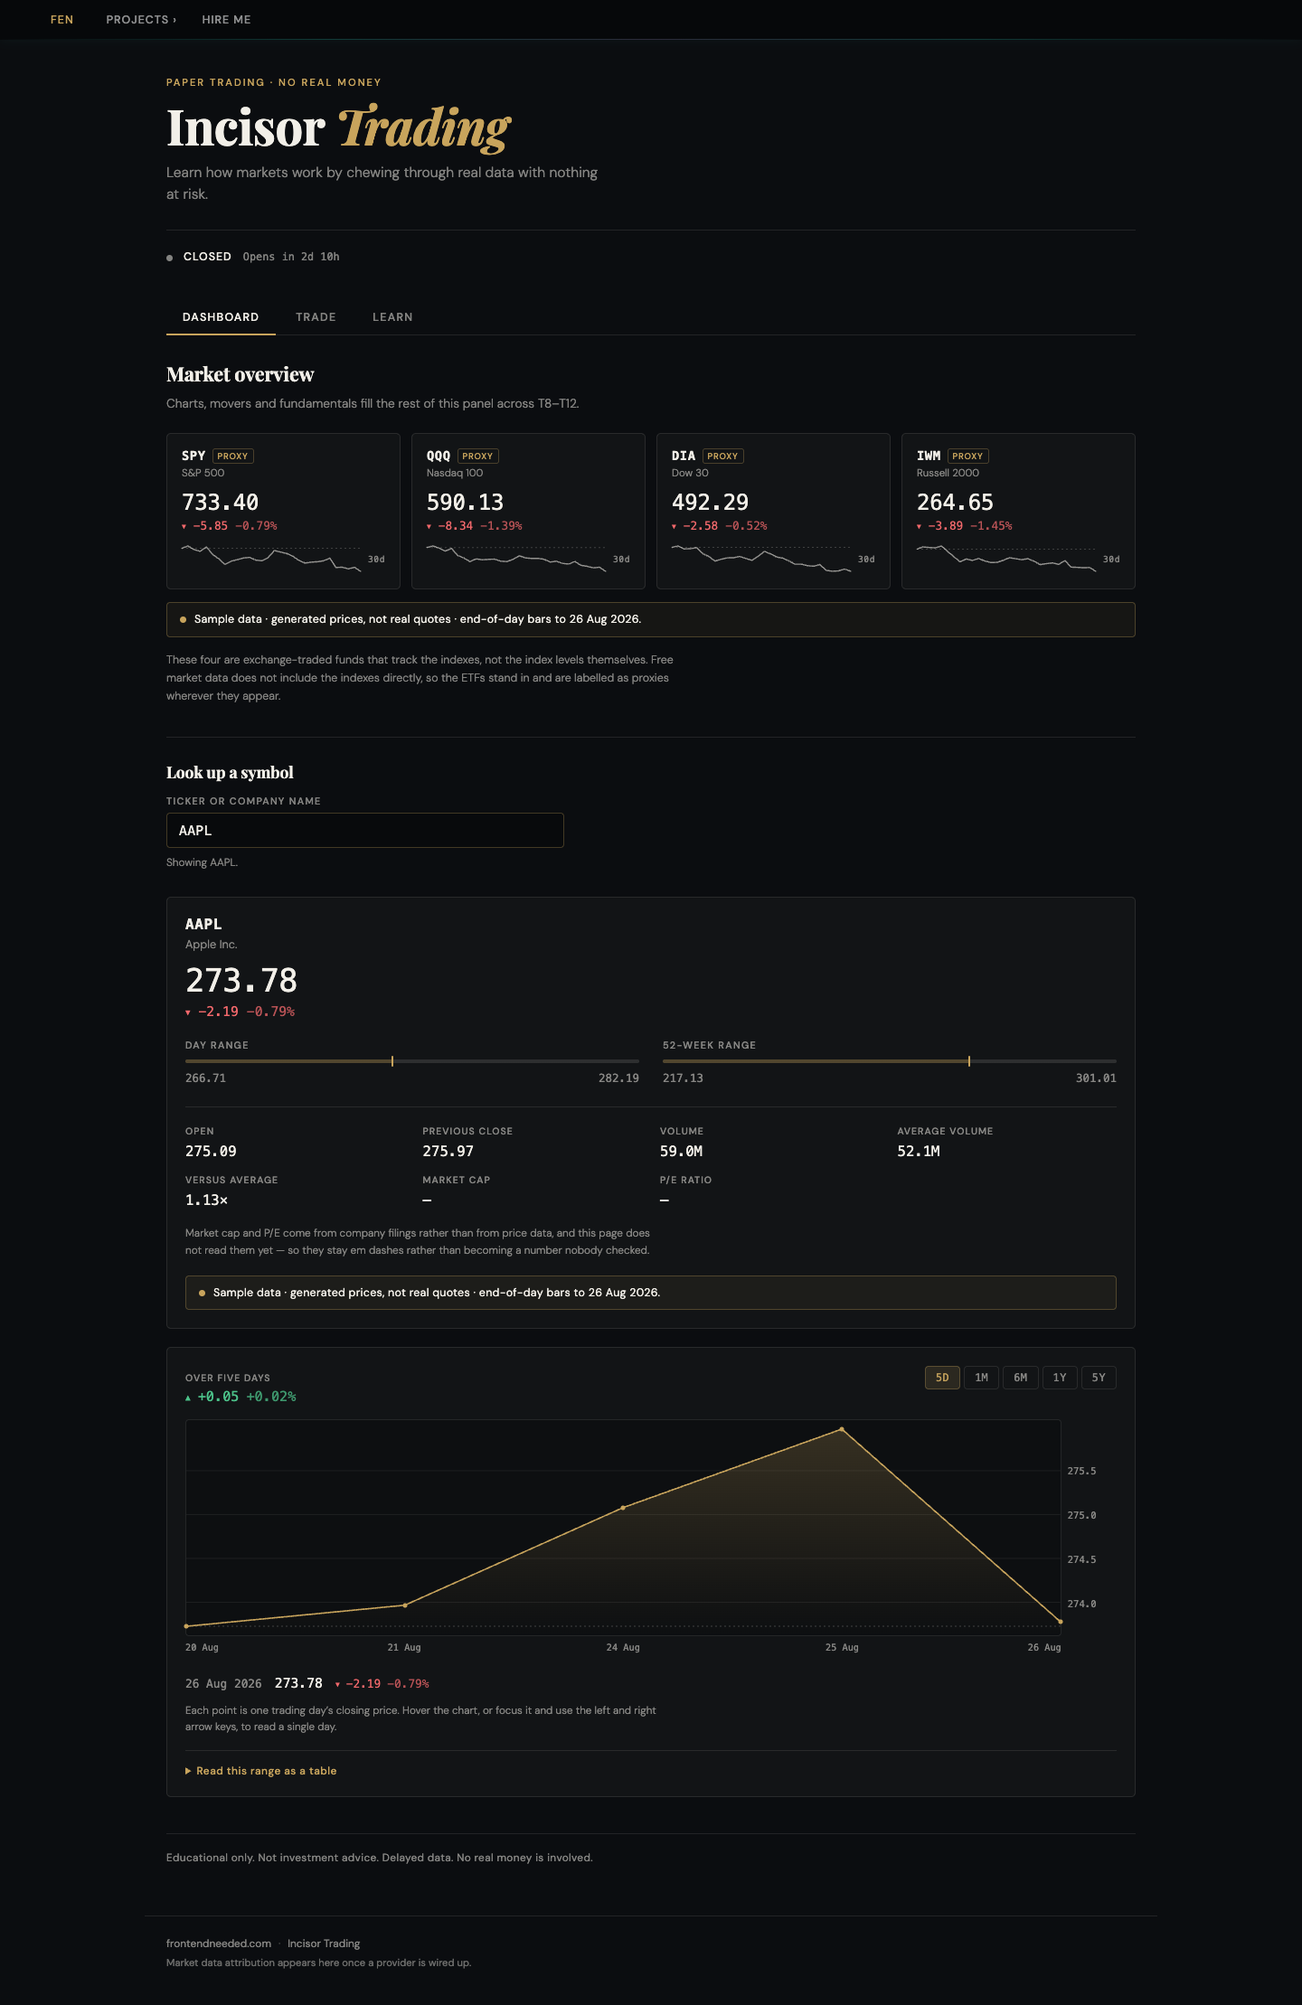
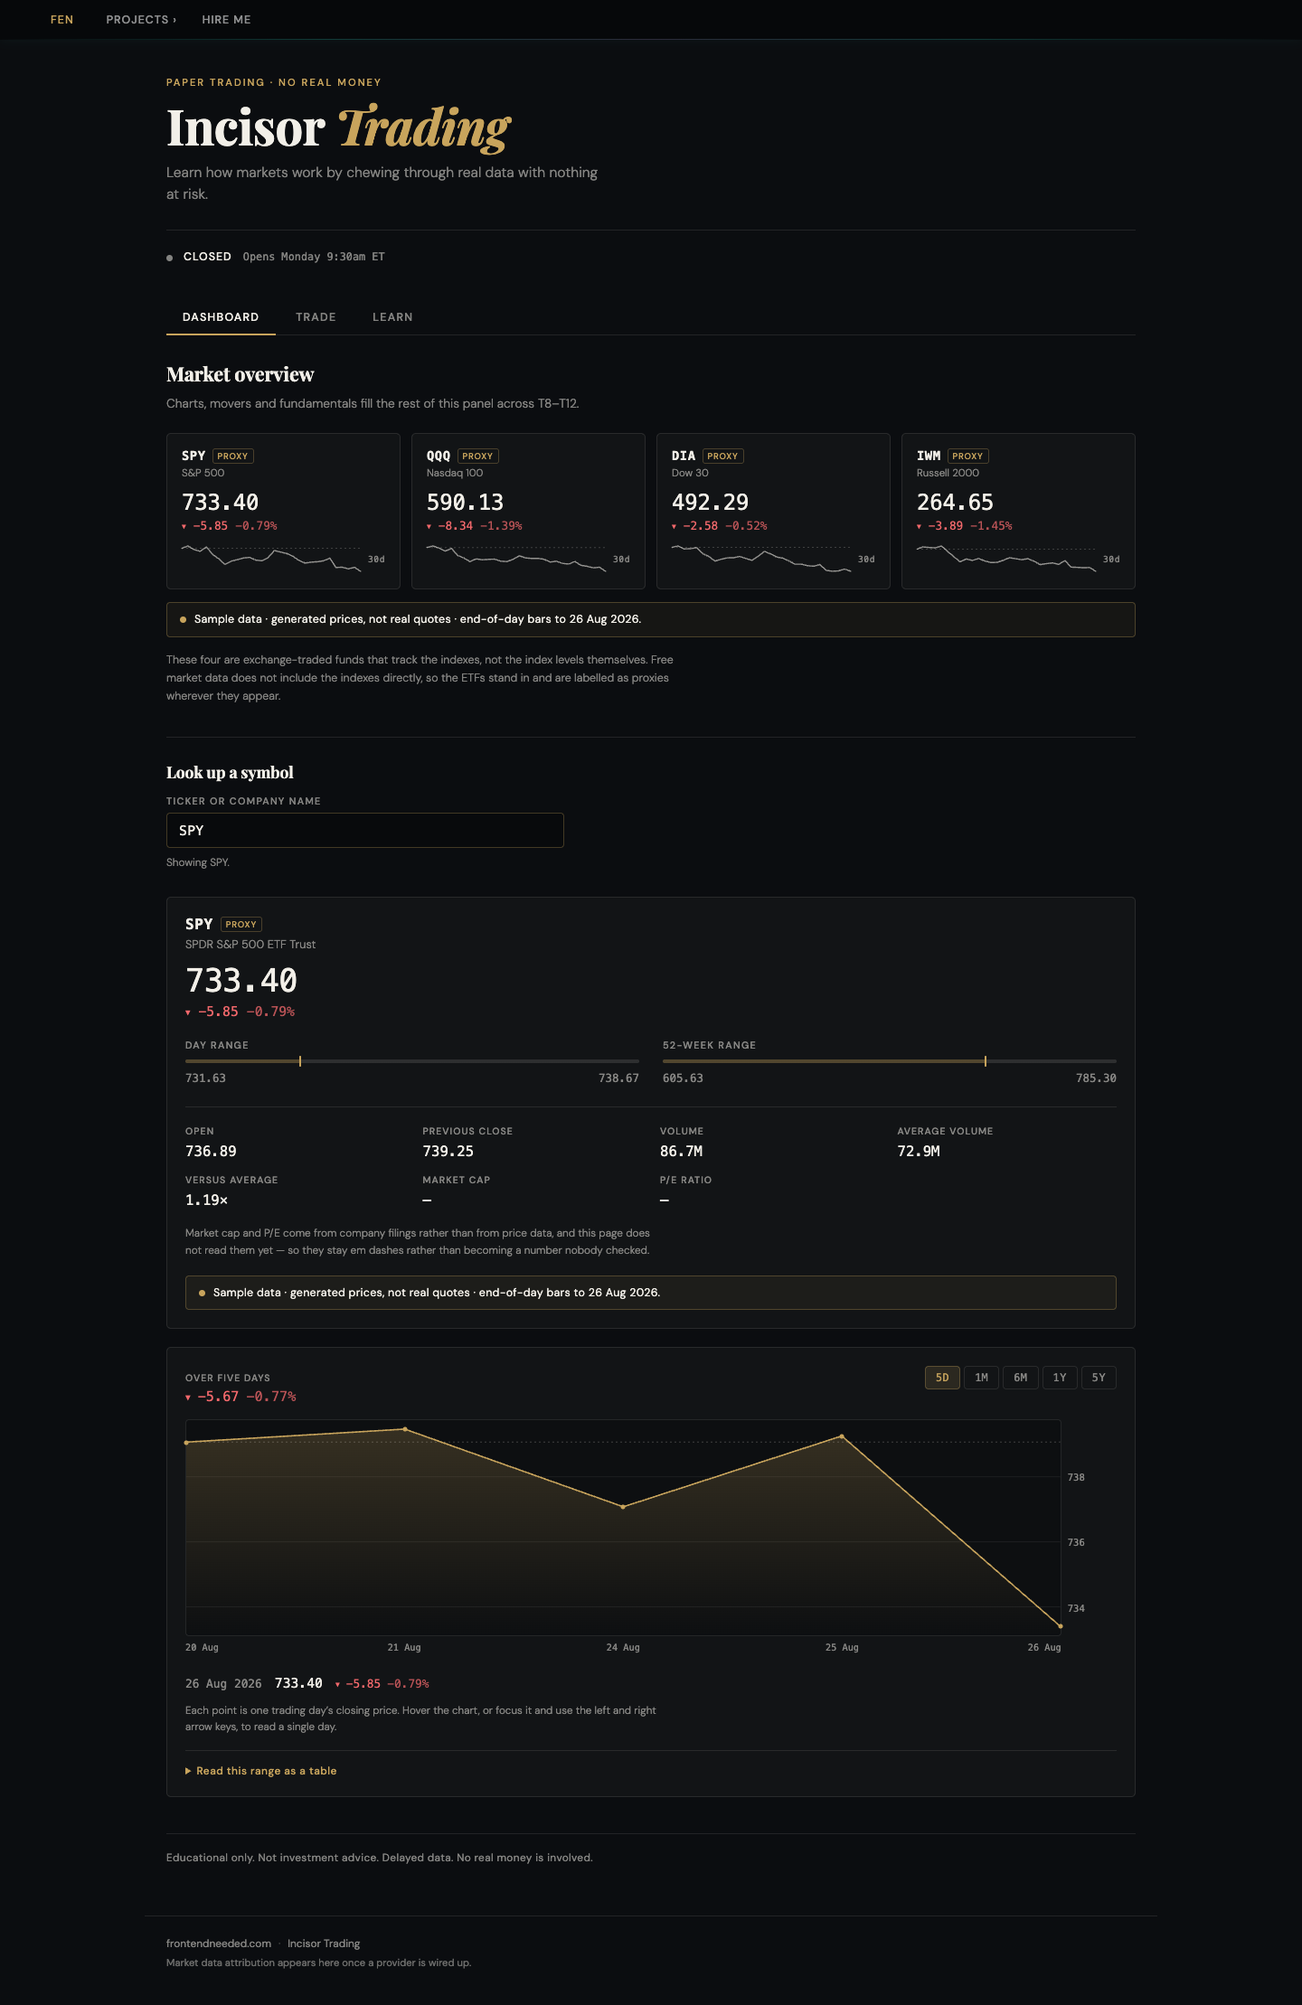
C: make the market clock say when, not only how long (audit)
The first audit under guide §18, on the oldest unaudited surface. Verdict
is minor edits: the right feature, telling the reader the less useful
half of what it knows.

It rendered "CLOSED · Opens in 2d 10h". The countdown is a sum the reader
has to do in their head, and it lands against a timezone the page no
longer named — the served line it overwrites was the only mention of ET
on the surface, so once the script ran that fact was gone. It also left
the state word with no subject: "Closed" names no market.

Now: "CLOSED · Opens Monday 9:30am ET". The countdown is kept only while
the event is today, where being live and close is what it is for; beyond
that the moment is the whole answer and the sum was the same fact told
worse. Naming the day also lets a weekend explain itself, which is why
only a holiday and a half day still state a reason.

The reason moved into an element of its own so it wraps as a phrase
rather than across "Juneteenth National Independence" / "Day". Measured
at 375px: the five everyday states are one row, the three rare ones a
stable two, and the served line now matches the live one at 34px, so the
load-time shift the reserved height was supposed to prevent is gone too.

72 checks in JavaScriptCore, 90 page tests, 123 service tests. shoot.py
green across all four shot sets, which are refreshed here because every
one of them had the old line at the top.

Changed region(s): [[0.125, 0.7155, 0.4688, 0.7777], [0.5938, 0.7155, 0.6875, 0.7466], [0.1562, 0.4666, 0.2188, 0.4977]]

diff --git a/incisor-trading/tests/clock_model.jxa.js b/incisor-trading/tests/clock_model.jxa.js
@@ -81,6 +81,31 @@ function run(argv) {
     equal('after hours counts down to the next day’s open',
         at('2026-08-27T21:00:00Z').next.at.toISOString(), '2026-08-28T13:30:00.000Z');
 
+    /* ── Saying when, not only how long ──────────────────────────
+     * The day word is dropped for today, "tomorrow" covers the next date on
+     * the Eastern wall clock, and anything further is named. */
+
+    equal('an open market names the closing time',
+        at('2026-08-27T14:30:00Z').next.when, '4:00pm ET');
+    equal('pre-market names today’s open without a day word',
+        at('2026-08-27T12:00:00Z').next.when, '9:30am ET');
+    equal('after hours names tomorrow’s open',
+        at('2026-08-27T21:00:00Z').next.when, 'tomorrow 9:30am ET');
+    equal('Saturday names the weekday it opens',
+        at('2026-08-29T16:00:00Z').next.when, 'Monday 9:30am ET');
+    equal('an early close names 1pm rather than 4pm',
+        at('2026-11-27T17:30:00Z').next.when, '1:00pm ET');
+    equal('a holiday names the day trading resumes',
+        at('2026-11-26T15:00:00Z').next.when, 'tomorrow 9:30am ET');
+    equal('the label is Eastern in winter too, not shifted by the offset',
+        at('2026-01-15T12:00:00Z').next.when, '9:30am ET');
+
+    /* The small hours of a trading day are before that day's own open, so the
+     * event is today and takes no day word — the boundary "tomorrow" would
+     * get wrong if it were computed from elapsed hours rather than dates. */
+    equal('3am on a trading day still opens today',
+        at('2026-08-27T07:00:00Z').next.when, '9:30am ET');
+
     /* ── Weekends ────────────────────────────────────────────────
      * Saturday 29 and Sunday 30 August 2026. */
 
@@ -200,13 +225,15 @@ function run(argv) {
      */
 
     function renderWith(session) {
-        var state = { textContent: 'US market' };
-        var detail = { textContent: 'Regular hours' };
+        var state = { textContent: 'Regular hours' };
+        var detail = { textContent: '9:30am - 4:00pm ET' };
+        var reason = { textContent: '', hidden: true };
         var attributes = {};
         var clockNode = {
             querySelector: function (selector) {
                 if (selector === '[data-clock-state]') return state;
                 if (selector === '[data-clock-detail]') return detail;
+                if (selector === '[data-clock-reason]') return reason;
                 return null;
             },
             getAttribute: function (name) { return attributes[name] || null; },
@@ -230,45 +257,65 @@ function run(argv) {
             documentStub, windowStub);
 
         return { state: state.textContent, detail: detail.textContent,
+                 reason: reason.textContent, reasonHidden: reason.hidden,
                  phase: attributes['data-phase'] };
     }
 
     var openView = renderWith({
         phase: 'open', label: 'Open', holiday: null, isEarlyClose: false,
-        next: { event: 'close', seconds: 5400 }
+        next: { event: 'close', when: '4:00pm ET', sameDay: true, seconds: 5400 }
     });
     equal('an open market reads as open', openView.state, 'Open');
-    equal('an open market counts down to the close in words',
-        openView.detail, 'Closes in 1h 30m');
+    equal('an open market says when it closes, then how long',
+        openView.detail, 'Closes 4:00pm ET \u00b7 in 1h 30m');
     equal('the phase reaches the element for styling', openView.phase, 'open');
+    check('an ordinary day gives no reason', openView.reason === ''
+        && openView.reasonHidden === true);
 
+    /* A countdown earns its width by being live and close. Once the moment is
+     * on another day the clock names it and stops there — the two-unit sum was
+     * the same fact told worse, and it is what pushed the line onto a third
+     * row at 375px. */
     var closedView = renderWith({
         phase: 'closed', label: 'Closed', holiday: null, isEarlyClose: false,
-        next: { event: 'open', seconds: 61200 }
+        next: { event: 'open', when: 'Monday 9:30am ET', sameDay: false,
+                seconds: 205200 }
     });
-    equal('a closed market counts down to the open',
-        closedView.detail, 'Opens in 17h 00m');
+    equal('a closed market names the moment rather than counting days down',
+        closedView.detail, 'Opens Monday 9:30am ET');
 
+    /* The timezone is the half a countdown cannot carry, and the served line
+     * that used to state it is the line this one replaces. */
+    check('every wording names Eastern time',
+        openView.detail.indexOf('ET') !== -1
+        && closedView.detail.indexOf('ET') !== -1);
+
+    /* The reason is a node of its own so it wraps as a whole phrase, which is
+     * why it is asserted apart from the detail rather than inside it. */
     var holidayView = renderWith({
         phase: 'closed', label: 'Closed', holiday: 'Thanksgiving Day',
-        isEarlyClose: false, next: { event: 'open', seconds: 84600 }
+        isEarlyClose: false, next: { event: 'open', when: 'tomorrow 9:30am ET',
+                                     sameDay: false, seconds: 84600 }
     });
-    check('a holiday is named rather than left as a bare countdown',
-        holidayView.detail.indexOf('Thanksgiving Day') === 0, holidayView.detail);
+    equal('a holiday gives the answer first', holidayView.detail,
+        'Opens tomorrow 9:30am ET');
+    equal('and names itself as the reason', holidayView.reason, 'Thanksgiving Day');
+    check('a reason that exists is shown', holidayView.reasonHidden === false);
 
     var earlyView = renderWith({
         phase: 'open', label: 'Open', holiday: null, isEarlyClose: true,
-        next: { event: 'close', seconds: 1800 }
+        next: { event: 'close', when: '1:00pm ET', sameDay: true, seconds: 1800 }
     });
-    check('an early close is called out, not just counted down',
-        earlyView.detail.indexOf('early close') !== -1, earlyView.detail);
+    equal('an early close is timed to the minute it really closes',
+        earlyView.detail, 'Closes 1:00pm ET \u00b7 in 30m 00s');
+    equal('and says that 1pm is not a mistake', earlyView.reason, 'early close');
 
     /* The shell must survive the clock module being absent: the served markup
      * already says something true, and overwriting it with nothing would be
      * worse than leaving it alone. */
     var survived = true;
     try {
-        var untouched = { textContent: 'Regular hours 9:30am – 4:00pm ET' };
+        var untouched = { textContent: '9:30am – 4:00pm ET' };
         (new Function('document', 'window', read(pageDir + '/incisor.js')))(
             {
                 querySelector: function (selector) {
@@ -281,7 +328,7 @@ function run(argv) {
                 getElementById: function () { return null; }
             },
             { setInterval: function () { return 0; } });
-        survived = untouched.textContent === 'Regular hours 9:30am – 4:00pm ET';
+        survived = untouched.textContent === '9:30am – 4:00pm ET';
     } catch (error) {
         survived = false;
         check('the shell survives a missing clock module', false, String(error));

diff --git a/incisor-trading/incisor.js b/incisor-trading/incisor.js
@@ -50,19 +50,40 @@
 
         var stateNode = clock.querySelector('[data-clock-state]');
         var detailNode = clock.querySelector('[data-clock-detail]');
-        if (!stateNode || !detailNode) return;
+        var reasonNode = clock.querySelector('[data-clock-reason]');
+        if (!stateNode || !detailNode || !reasonNode) return;
 
+        /* The answer first, then how long, then why if there is a why.
+         *
+         *     Closes 4:00pm ET · in 2h 14m
+         *     Opens Monday 9:30am ET
+         *     Opens tomorrow 9:30am ET · Thanksgiving Day
+         *
+         * This used to read only "Opens in 2d 10h", which answers the less
+         * useful half of the question and made the reader sum two days and
+         * ten hours against a timezone nothing on the page named — the served
+         * line that did name it is the line this overwrites. Saying when also
+         * lets a weekend explain itself, which is why only a holiday still
+         * states a reason.
+         *
+         * The countdown is kept only while the event is today. It earns its
+         * width by being live and close; "in 2d 3h" beside "Monday 9:30am ET"
+         * is the same fact told worse, and at 375px it was the part pushing
+         * the line onto a second and third row.
+         */
         function detailFor(session) {
-            if (session.holiday) {
-                return session.holiday + ' \u00b7 opens in '
-                    + api.formatCountdown(session.next.seconds);
-            }
-            var verb = session.next.event === 'close' ? 'Closes in ' : 'Opens in ';
-            var detail = verb + api.formatCountdown(session.next.seconds);
-            // Worth saying out loud: on an early-close day the market shuts at
-            // 1pm, and a countdown that just runs out is a confusing way to
-            // find that out.
-            return session.isEarlyClose ? detail + ' \u00b7 early close' : detail;
+            var verb = session.next.event === 'close' ? 'Closes ' : 'Opens ';
+            var detail = verb + session.next.when;
+            if (!session.next.sameDay) return detail;
+            return detail + ' \u00b7 in ' + api.formatCountdown(session.next.seconds);
+        }
+
+        /* Empty on an ordinary day, which is most of them. 1:00pm reads as a
+         * mistake unless it is named, and a learner is exactly the reader who
+         * would not know half days exist. */
+        function reasonFor(session) {
+            if (session.holiday) return session.holiday;
+            return session.isEarlyClose ? 'early close' : '';
         }
 
         function render() {
@@ -70,6 +91,7 @@
             if (!session.next) return;
 
             var detail = detailFor(session);
+            var reason = reasonFor(session);
 
             // Text only, never markup — and compared before writing, so a
             // once-a-second tick is not a once-a-second reflow.
@@ -78,6 +100,11 @@
             }
             if (detailNode.textContent !== detail) {
                 detailNode.textContent = detail;
+            }
+            if (reasonNode.textContent !== reason) {
+                reasonNode.textContent = reason;
+                // Hidden rather than empty, so the flex gap goes with it.
+                reasonNode.hidden = reason === '';
             }
             if (clock.getAttribute('data-phase') !== session.phase) {
                 clock.setAttribute('data-phase', session.phase);

diff --git a/incisor-trading/js/market-clock.js b/incisor-trading/js/market-clock.js
@@ -45,6 +45,9 @@
         post: 'After hours'
     };
 
+    var WEEKDAYS = ['Sunday', 'Monday', 'Tuesday', 'Wednesday', 'Thursday',
+                    'Friday', 'Saturday'];
+
     var parts = new Intl.DateTimeFormat('en-US', {
         timeZone: ZONE,
         hour12: false,
@@ -253,6 +256,8 @@
         if (phaseOf(wall.minutes, day) === 'open') {
             return {
                 event: 'close',
+                date: wall,
+                minutes: day.close,
                 at: instantAt(wall.year, wall.month, wall.day, day.close)
             };
         }
@@ -263,8 +268,48 @@
 
         return {
             event: 'open',
+            date: date,
+            minutes: REGULAR_OPEN,
             at: instantAt(date.year, date.month, date.day, REGULAR_OPEN)
         };
+    }
+
+    /* ── Saying when ────────────────────────────────────────────── */
+
+    /* Whole days from one Eastern calendar date to another. Both are read as
+     * UTC midnights, so this is a calendar subtraction with no zone in it —
+     * which is what makes "tomorrow" mean the next date on the wall rather
+     * than the next twenty-four hours. */
+    function daysBetween(from, to) {
+        var start = Date.UTC(from.year, from.month - 1, from.day);
+        var end = Date.UTC(to.year, to.month - 1, to.day);
+        return Math.round((end - start) / 86400000);
+    }
+
+    function formatWallTime(minutes) {
+        var hour = Math.floor(minutes / 60);
+        var hour12 = hour % 12 === 0 ? 12 : hour % 12;
+        return hour12 + ':' + pad(minutes % 60) + (hour < 12 ? 'am' : 'pm');
+    }
+
+    /* "9:30am ET", "tomorrow 9:30am ET", "Monday 9:30am ET".
+     *
+     * A countdown alone says how long but never when, and "in 2d 10h" is a sum
+     * the reader has to do in their head against a timezone nobody named. The
+     * day word is dropped when the event is today, because "Closes 4:00pm ET"
+     * already means today and saying so would be noise. Beyond tomorrow the
+     * weekday name is unambiguous — the market never closes for a week.
+     */
+    function eventWhen(wall, event) {
+        var away = daysBetween(wall, event.date);
+        var prefix = '';
+        if (away === 1) {
+            prefix = 'tomorrow ';
+        } else if (away > 1) {
+            prefix = WEEKDAYS[weekdayOf(event.date.year, event.date.month,
+                                        event.date.day)] + ' ';
+        }
+        return prefix + formatWallTime(event.minutes) + ' ET';
     }
 
     /* The whole public surface: what the market is doing at `now`. */
@@ -285,6 +330,10 @@
             next: next && {
                 event: next.event,
                 at: next.at,
+                when: eventWhen(wall, next),
+                // Whether the event lands on the date it is now, which is
+                // what decides if a countdown beside it is worth its width.
+                sameDay: daysBetween(wall, next.date) === 0,
                 seconds: Math.max(0, Math.round((next.at - when) / 1000))
             }
         };

diff --git a/incisor-trading/incisor.css b/incisor-trading/incisor.css
@@ -131,6 +131,20 @@ body.incisor .nav-dropdown-menu {
     font-size: 0.78rem;
 }
 
+/* Off-screen rather than display:none, which would take it out of the
+   accessibility tree along with the layout. Not a shared utility: it is the
+   only thing on this page that needs it, and /assets is out of bounds. */
+.inc-clock-subject {
+    position: absolute;
+    width: 1px;
+    height: 1px;
+    margin: -1px;
+    padding: 0;
+    overflow: hidden;
+    white-space: nowrap;
+    clip-path: inset(50%);
+}
+
 .inc-clock-state {
     font-weight: 500;
     letter-spacing: 0.08em;
@@ -145,6 +159,22 @@ body.incisor .nav-dropdown-menu {
     /* The countdown reticks every second and its width changes with the
        digits. Reserving the width stops the text beside it twitching. */
     min-width: 12ch;
+}
+
+/* Bracketed rather than separated by the page's usual middot, because this is
+   the one part of the line that wraps onto a row of its own at narrow widths —
+   and a leading separator at the start of a row reads as a missing word, while
+   a parenthesis reads as an aside from wherever it lands. */
+.inc-clock-reason {
+    font-size: 0.74rem;
+    color: var(--muted);
+}
+
+.inc-clock-reason::before { content: '('; }
+.inc-clock-reason::after { content: ')'; }
+
+.inc-clock-reason[hidden] {
+    display: none;
 }
 
 /* The dot is the fastest read of the four states, so it carries colour —

diff --git a/incisor-trading/index.html b/incisor-trading/index.html
@@ -98,9 +98,23 @@
         -->
         <div class="inc-clock" data-clock>
             <span class="inc-clock-dot" aria-hidden="true"></span>
-            <span class="inc-clock-state" data-clock-state>US market</span>
-            <span class="inc-clock-detail" data-clock-detail>Regular hours 9:30am
-                &ndash; 4:00pm ET, Monday to Friday</span>
+            <!--
+              The one part of this line the script never rewrites, and the only
+              thing left saying what is closed once it has: "Closed" on its own
+              names no market. Sighted readers get the subject back from the ET
+              in the detail.
+            -->
+            <span class="inc-clock-subject">US market</span>
+            <span class="inc-clock-state" data-clock-state>Regular hours</span>
+            <span class="inc-clock-detail" data-clock-detail>9:30am &ndash; 4:00pm
+                ET</span>
+            <!--
+              Why the market is shut, when there is a reason worth giving. Its
+              own element rather than more of the detail string, so that on a
+              narrow screen it wraps as a whole phrase instead of breaking
+              across "Juneteenth National Independence" / "Day".
+            -->
+            <span class="inc-clock-reason" data-clock-reason hidden></span>
         </div>
 
         <div class="inc-tabs">
